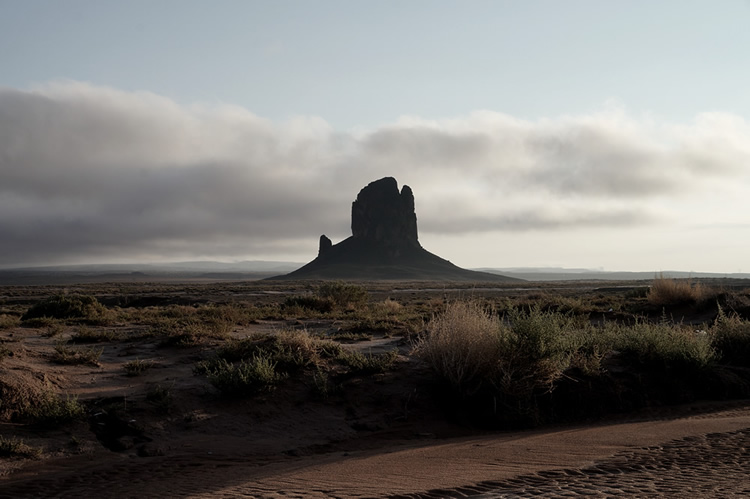
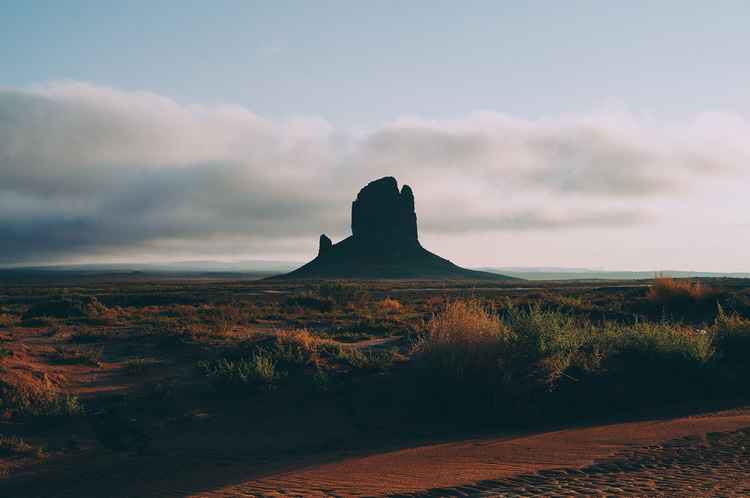
trying some different images

diff --git a/scss/main.css b/scss/main.css
@@ -325,7 +325,6 @@ article {
         .nav-bar #global-nav .identity {
           margin: .3rem .3rem .3rem 0; } }
       .nav-bar #global-nav .identity img {
-        filter: grayscale(80%) contrast(1.4);
         height: 2.9rem;
         width: 2.9rem;
         border-radius: 15%;
@@ -392,16 +391,16 @@ article {
   background-color: #C7CACF;
   position: relative; }
   .grid-flex .cover .cover-background {
-    background-image: url("./../images/monument-cover-28rem-adj.jpg");
+    background-image: url("./../images/monument-cover-28rem.jpg");
     background-size: cover;
     background-position: center;
     height: 100%; }
     @media screen and (min-width: 28rem) {
       .grid-flex .cover .cover-background {
-        background-image: url("./../images/monument-cover-50rem-adj.jpg"); } }
+        background-image: url("./../images/monument-cover-50rem.jpg"); } }
     @media screen and (min-width: 50rem) {
       .grid-flex .cover .cover-background {
-        background-image: url("./../images/monument-cover-adj.jpg"); } }
+        background-image: url("./../images/monument-cover.jpg"); } }
 
 .satnh {
   margin-top: 58vh;
@@ -423,16 +422,16 @@ article {
   background-size: cover;
   background-position: center;
   background-color: #C7CACF;
-  background-image: url(./../images/process/process-header-28rem-adj2.jpg); }
+  background-image: url(./../images/process/process-header-28rem.jpg); }
   @media screen and (min-width: 28rem) {
     .header-img-process {
-      background-image: url(./../images/process/process-header-50rem-adj2.jpg); } }
+      background-image: url(./../images/process/process-header-50rem.jpg); } }
   @media screen and (min-width: 50rem) {
     .header-img-process {
-      background-image: url(./../images/process/process-header-adj2.jpg); } }
+      background-image: url(./../images/process/process-header.jpg); } }
   @media screen and (min-width: 64rem) {
     .header-img-process {
-      background-image: url(./../images/process/process-header-big-screen-adj2.jpg); } }
+      background-image: url(./../images/process/process-header-big-screen.jpg); } }
 
 body, textarea, input, button {
   font-family: "Yantramanav", sans-serif;
@@ -931,16 +930,16 @@ ul.pills {
     box-shadow: 0 0.2rem 0.5rem 0px rgba(0, 0, 0, 0.15); }
 
 .contact-background {
-  background-image: url("./../images/contact/contact-bg-28rem-adj.jpg");
+  background-image: url("./../images/contact/contact-bg-28rem.jpg");
   background-size: cover;
   background-position: center;
   height: 100%; }
   @media screen and (min-width: 28rem) {
     .contact-background {
-      background-image: url("./../images/contact/contact-bg-50rem-adj.jpg"); } }
+      background-image: url("./../images/contact/contact-bg-50rem.jpg"); } }
   @media screen and (min-width: 50rem) {
     .contact-background {
-      background-image: url("./../images/contact/contact-bg-adj.jpg"); } }
+      background-image: url("./../images/contact/contact-bg.jpg"); } }
   .contact-background form {
     margin: auto;
     padding: 1.5rem 0 1rem; }

diff --git a/scss/_headers.scss b/scss/_headers.scss
@@ -9,14 +9,14 @@
   background-size:  cover;
   background-position: center;
   background-color: $vantablack-8;
-  background-image: url(./../images/process/process-header-28rem-adj2.jpg);
+  background-image: url(./../images/process/process-header-28rem.jpg);
   @media screen and (min-width: $phone-size) {
-    background-image: url(./../images/process/process-header-50rem-adj2.jpg);
+    background-image: url(./../images/process/process-header-50rem.jpg);
   }
   @media screen and (min-width: $tablet-size) {
-    background-image: url(./../images/process/process-header-adj2.jpg);
+    background-image: url(./../images/process/process-header.jpg);
   }
   @media screen and (min-width: $big-screen) {
-    background-image: url(./../images/process/process-header-big-screen-adj2.jpg);
+    background-image: url(./../images/process/process-header-big-screen.jpg);
   }
 }

diff --git a/scss/_cover.scss b/scss/_cover.scss
@@ -4,12 +4,12 @@
   background-color: $vantablack-8;
   position:         relative;
   .cover-background {
-    background-image: url("./../images/monument-cover-28rem-adj.jpg");
+    background-image: url("./../images/monument-cover-28rem.jpg");
     @media screen and (min-width: $phone-size) {
-      background-image: url("./../images/monument-cover-50rem-adj.jpg");
+      background-image: url("./../images/monument-cover-50rem.jpg");
     }
     @media screen and (min-width: $tablet-size) {
-      background-image: url("./../images/monument-cover-adj.jpg");
+      background-image: url("./../images/monument-cover.jpg");
     }
     background-size: cover;
     background-position: center;

diff --git a/index.html b/index.html
@@ -340,9 +340,9 @@
           <article>
             <h1>About</h1>
             <img class="img-large"
-              srcset="images/about/self-portrait-adj.jpg 2048w,
-                      images/about/self-portrait-50rem-adj.jpg 1600w,
-                      images/about/self-portrait-28rem-adj.jpg 896w"
+              srcset="images/about/self-portrait.jpg 2048w,
+                      images/about/self-portrait-50rem.jpg 1600w,
+                      images/about/self-portrait-28rem.jpg 896w"
               sizes="(min-width:70rem) 1120w, 100vw"
               src="images/about/self-portrait.jpg" alt="Picture of Jason"
             />

diff --git a/scss/_contact.scss b/scss/_contact.scss
@@ -1,10 +1,10 @@
 .contact-background {
-  background-image: url("./../images/contact/contact-bg-28rem-adj.jpg");
+  background-image: url("./../images/contact/contact-bg-28rem.jpg");
   @media screen and (min-width: $phone-size) {
-    background-image: url("./../images/contact/contact-bg-50rem-adj.jpg");
+    background-image: url("./../images/contact/contact-bg-50rem.jpg");
   }
   @media screen and (min-width: $tablet-size) {
-    background-image: url("./../images/contact/contact-bg-adj.jpg");
+    background-image: url("./../images/contact/contact-bg.jpg");
   }
   background-size:  cover;
   background-position: center;

diff --git a/js/app.js b/js/app.js
@@ -31,7 +31,7 @@ var home = { template: '#home' },
       { name: 'customerFlow', path: '/customer-flow', component: customerFlow, meta: { project: true, title: 'Esurance: Customer Flow' } }
     ],
     router = new VueRouter({
-      mode: 'history',
+      //mode: 'history',
       routes: routes,
       scrollBehavior (to, from, savedPosition) {
         if (savedPosition) {

diff --git a/scss/_nav.scss b/scss/_nav.scss
@@ -31,7 +31,7 @@
         margin: .3rem .3rem .3rem 0;
       }
       img {
-        filter:     grayscale(80%) contrast(1.4);
+        //filter:     grayscale(80%) contrast(1.4);
         height:     $nav-height - .6rem;
         width:      $nav-height - .6rem;
         border-radius: 15%;
